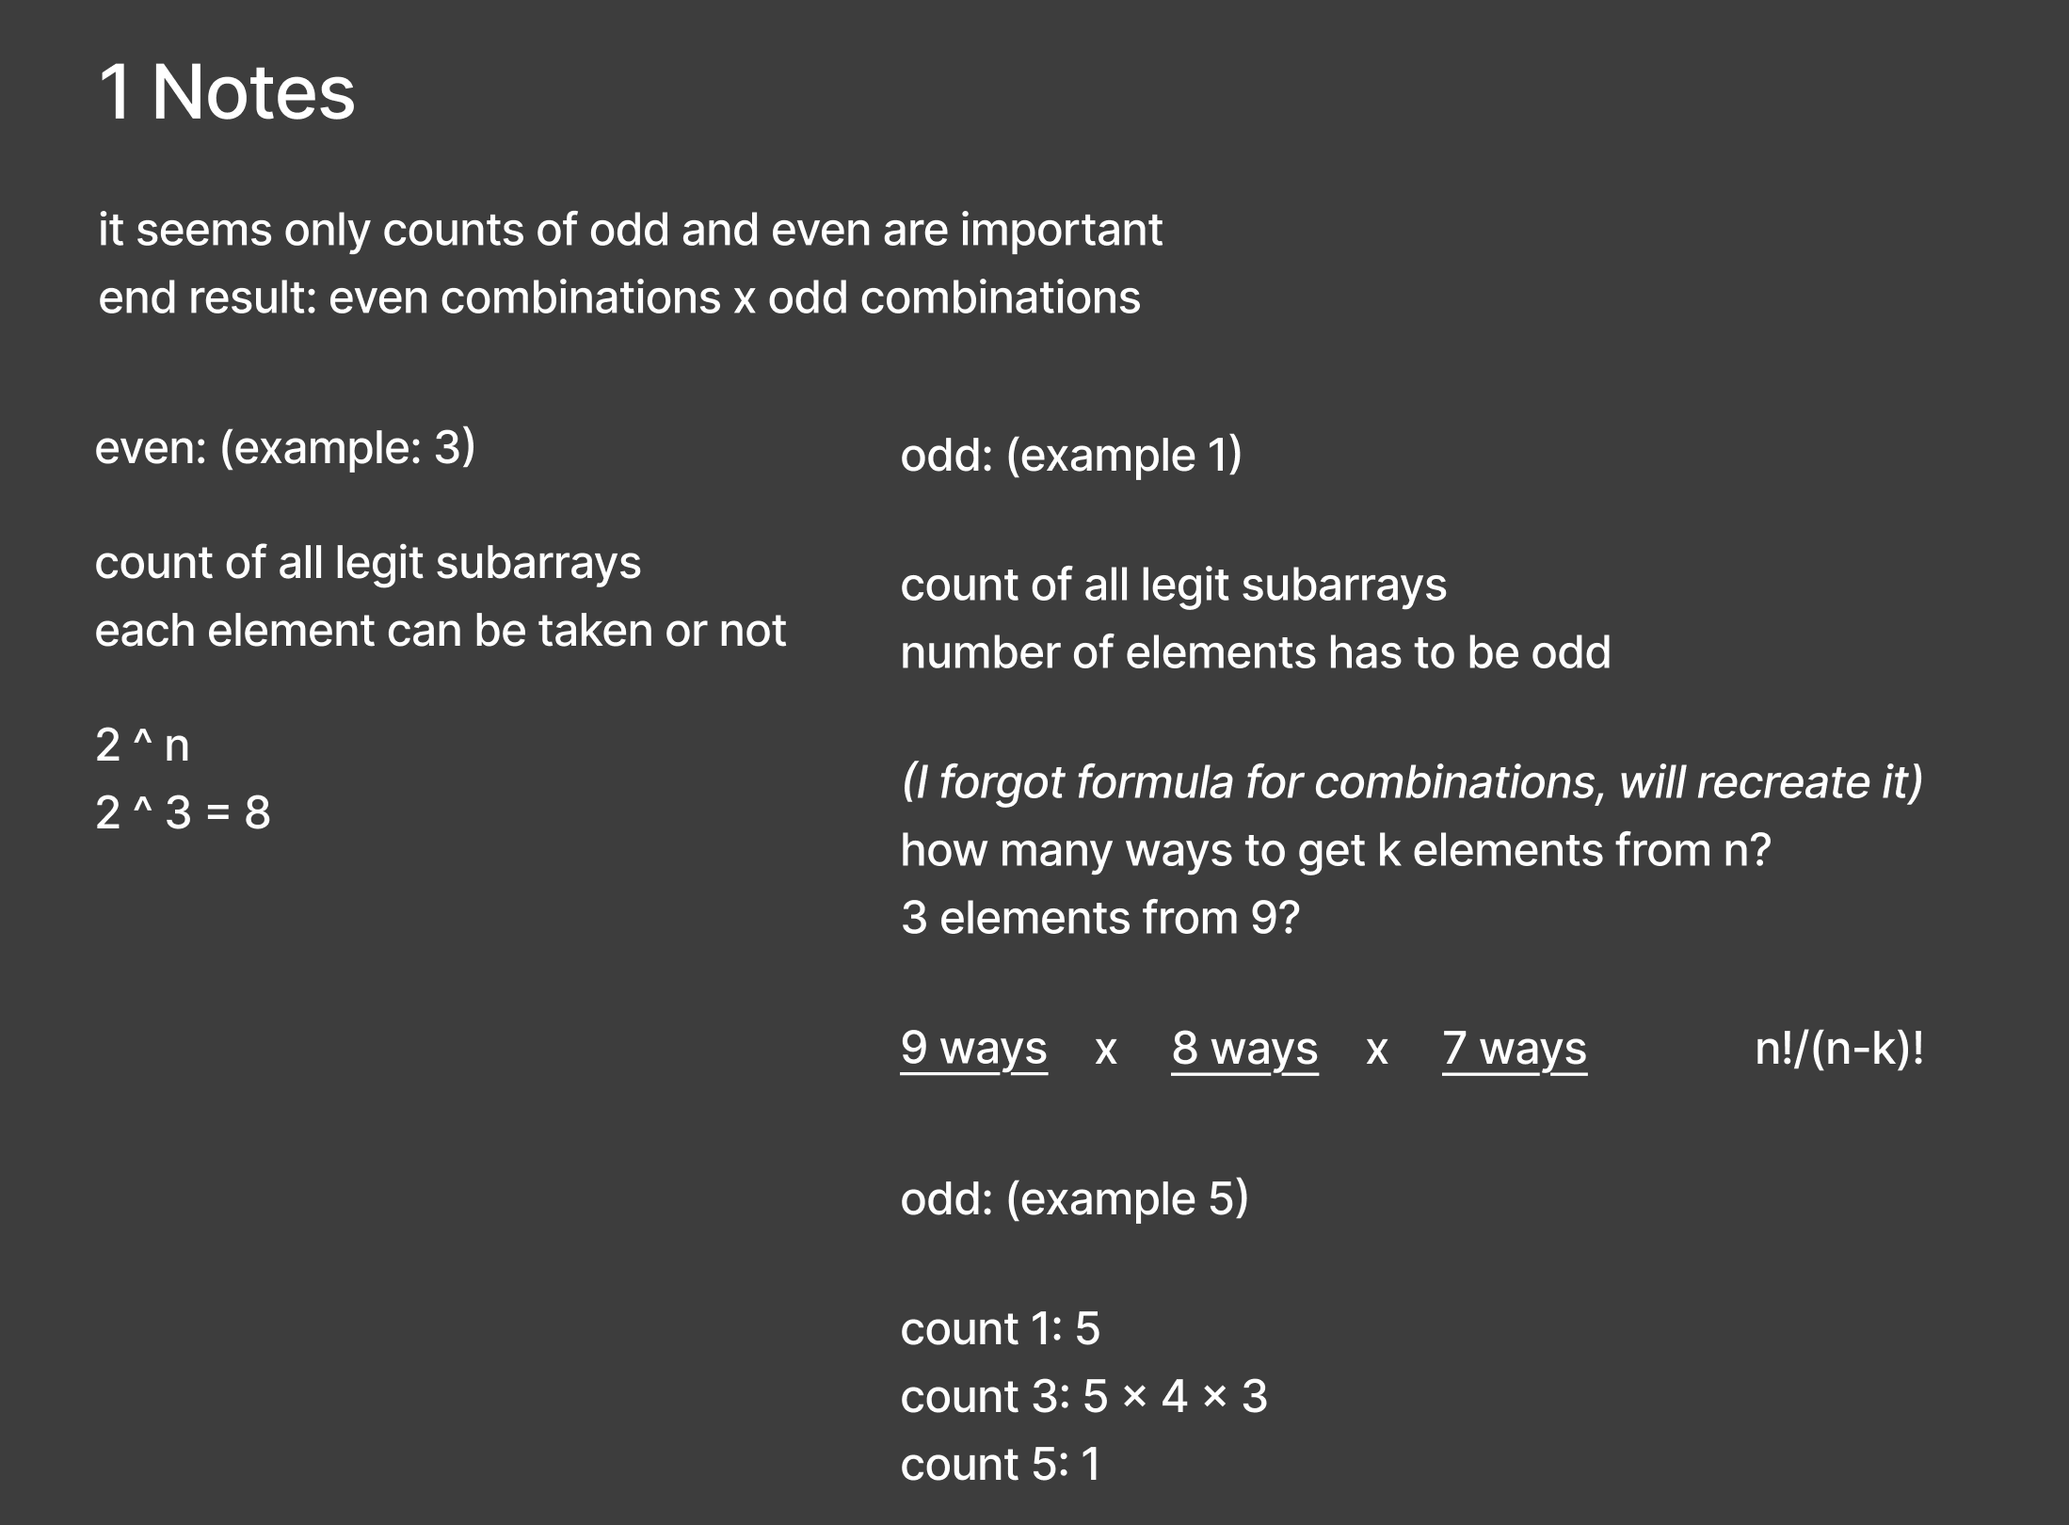
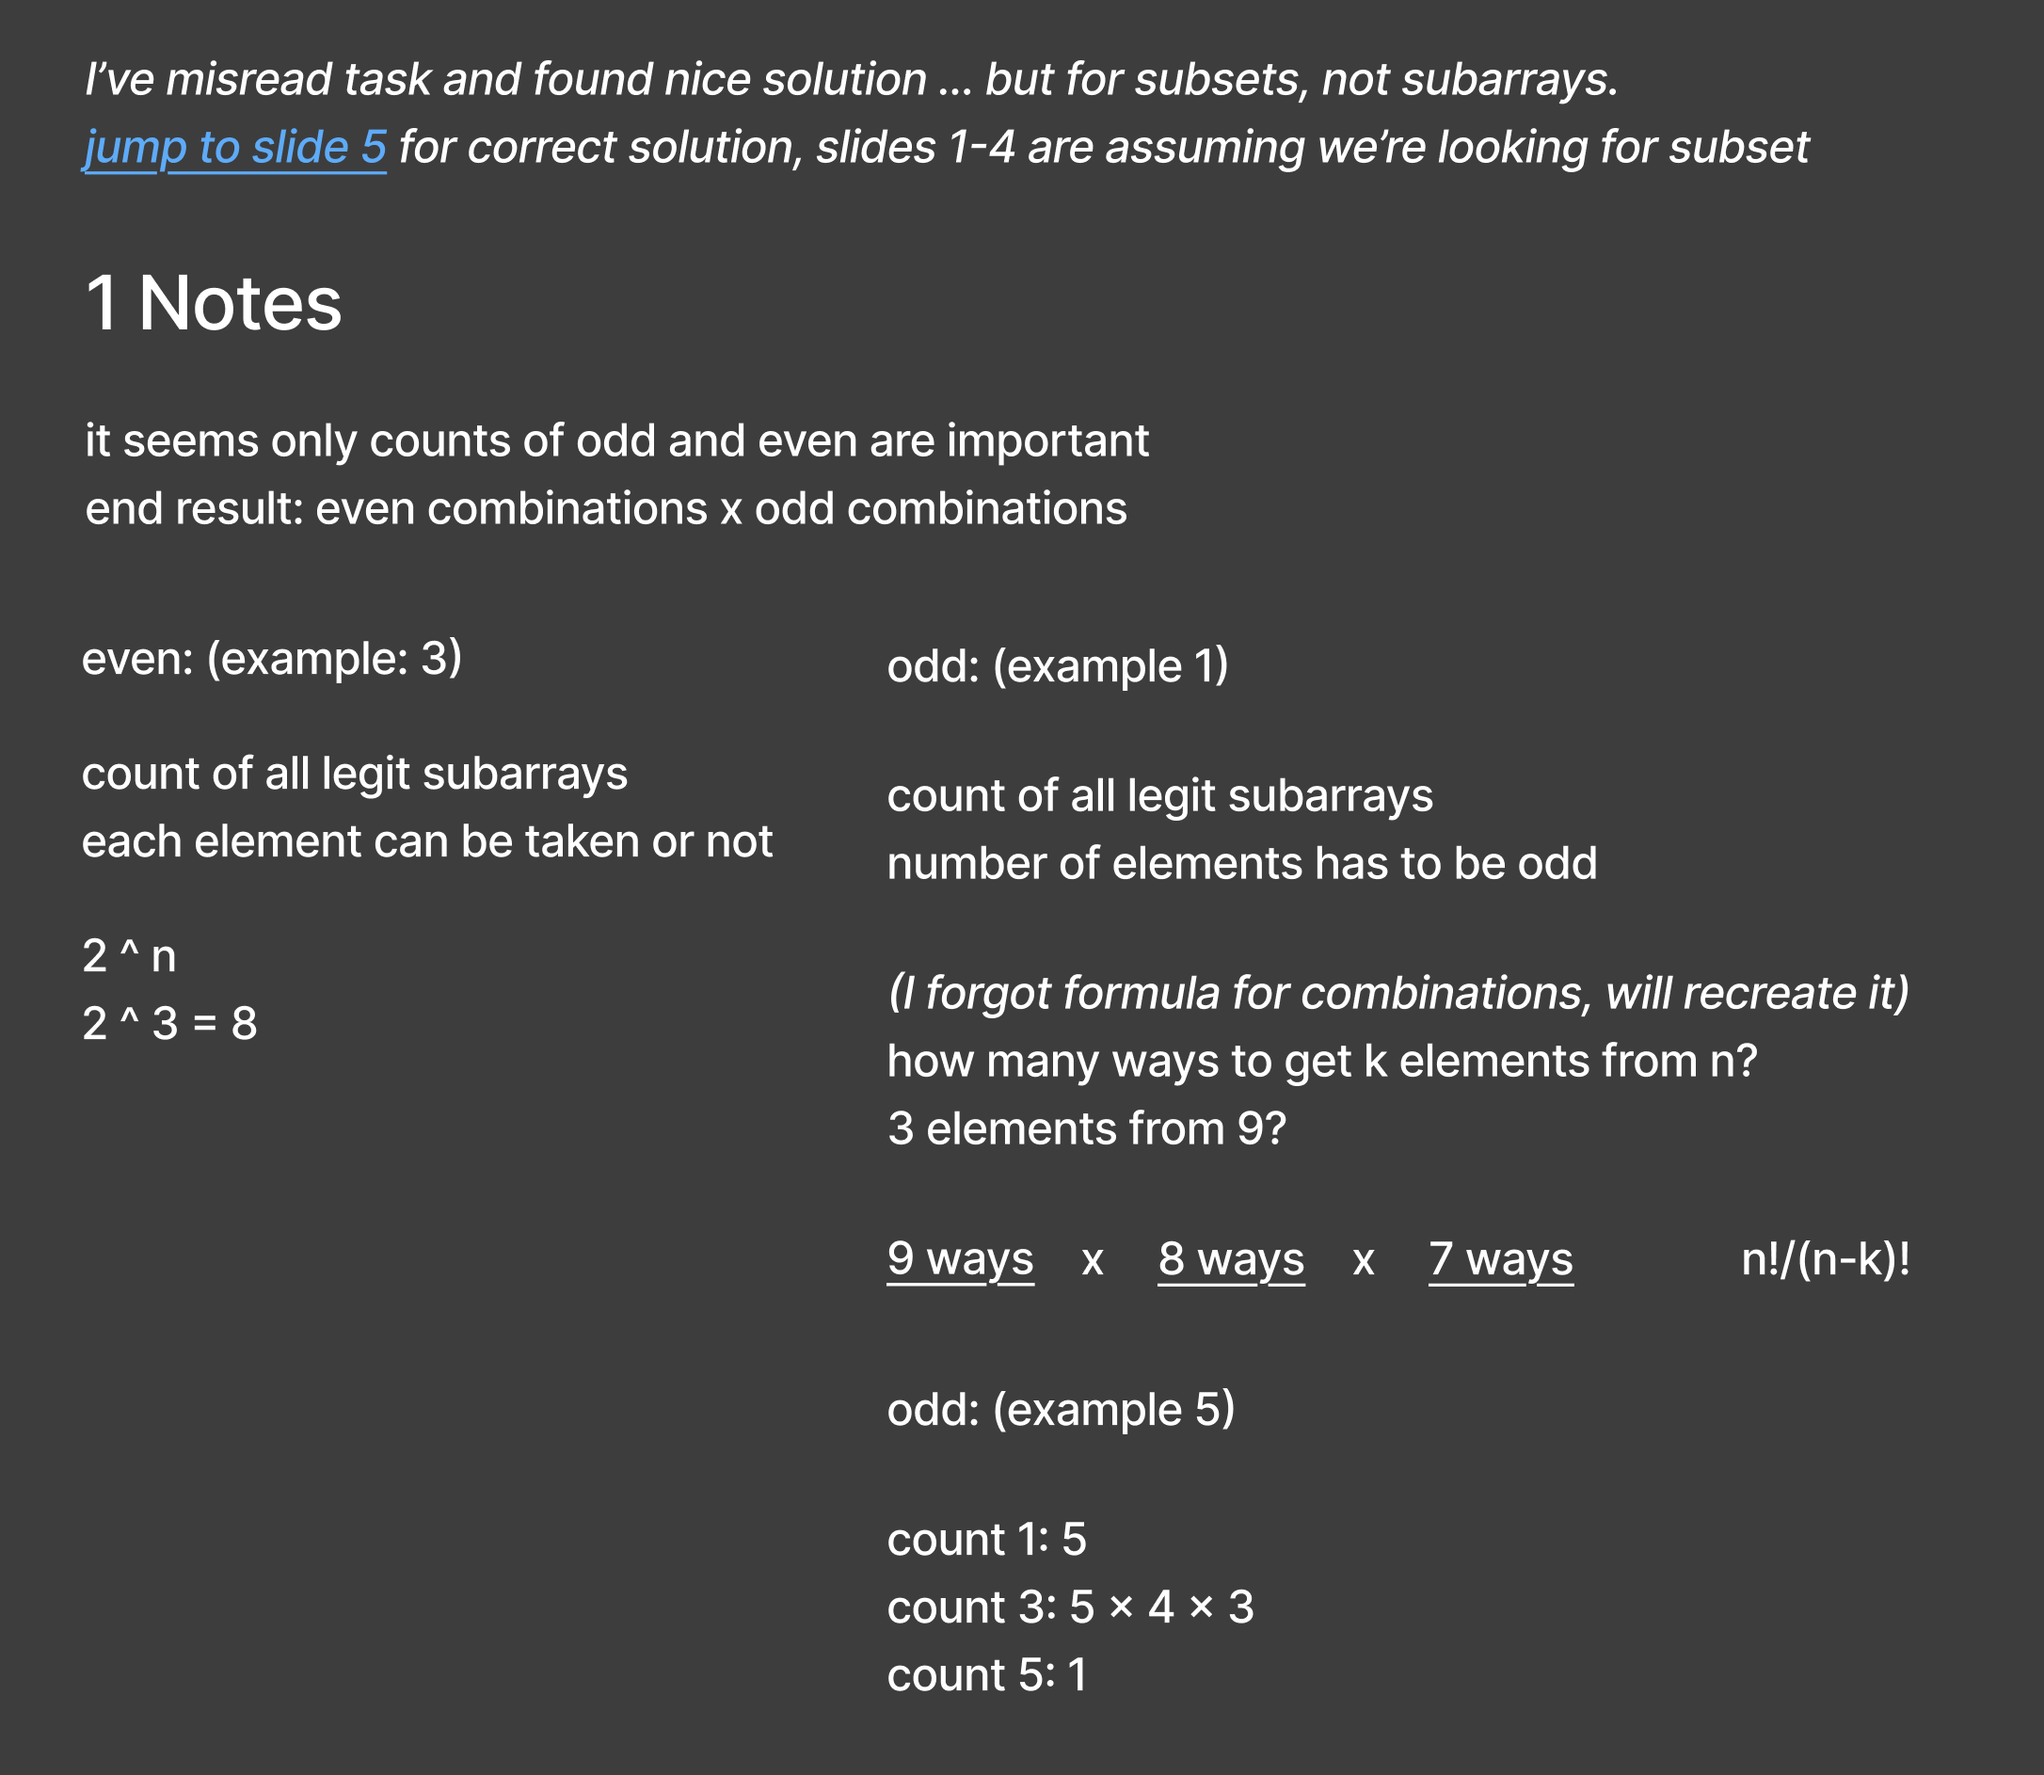
docs: update 1524 odd summ subarrays

diff --git a/readme.md b/readme.md
@@ -26,6 +26,8 @@ Randomly pick language on leetcode.
 ![img](./1524-odd-sum-subarrays/2.png)  
 ![img](./1524-odd-sum-subarrays/3.png)  
 ![img](./1524-odd-sum-subarrays/4.png)
+![img](./1524-odd-sum-subarrays/5.png)
+![img](./1524-odd-sum-subarrays/6.png)
 
 
 
